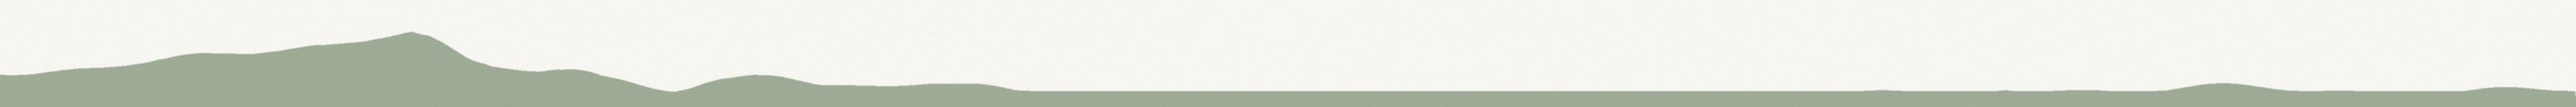
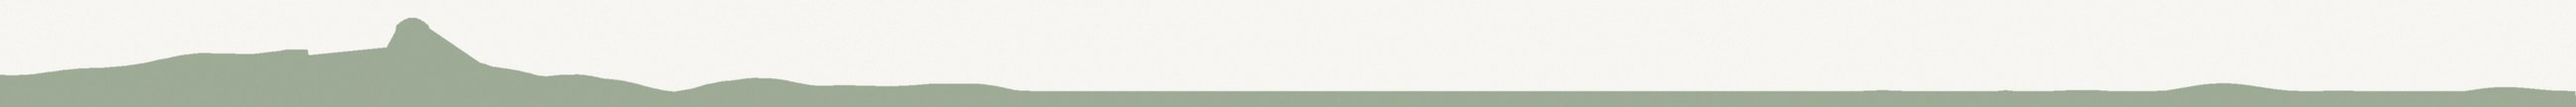
Lock the Diablo summit into the Lafayette triangle
The silhouette was positioned from the padding edge, so the high peak
sat in the gutter left of the mark. Offset by the title-row padding and
restore a clear crest at the triangle. Mid-band roll stays under the
title; the far right stays quiet.

diff --git a/app/globals.css b/app/globals.css
@@ -108,13 +108,26 @@ body {
 
 .pulse-home-ridge__sil {
   position: absolute;
-  /* Peak is at art x=420; shift so it sits in the triangle. Never cover-scale. */
-  left: -400px;
+  /* Crest is at art x=416. Add the title-row padding so the summit
+     lands in the triangle (absolute left is the padding edge). */
+  left: calc(-400px + 1rem);
   top: 0;
   height: 108px;
   width: 2600px;
   max-width: none;
   display: block;
+}
+
+@media (min-width: 640px) {
+  .pulse-home-ridge__sil {
+    left: calc(-400px + 1.5rem);
+  }
+}
+
+@media (min-width: 1024px) {
+  .pulse-home-ridge__sil {
+    left: calc(-400px + 2rem);
+  }
 }
 
 .pulse-home-ridge__wash {

diff --git a/app/page.tsx b/app/page.tsx
@@ -73,7 +73,7 @@ export default function Home() {
         <div className="pulse-home-ridge__scene" aria-hidden="true">
           <div className="pulse-home-ridge__align max-w-7xl mx-auto px-4 sm:px-6 lg:px-8">
             <img
-              src="/pulse-ridge.jpg?v=diablo-5"
+              src="/pulse-ridge.jpg?v=diablo-6"
               alt=""
               width={2600}
               height={108}
